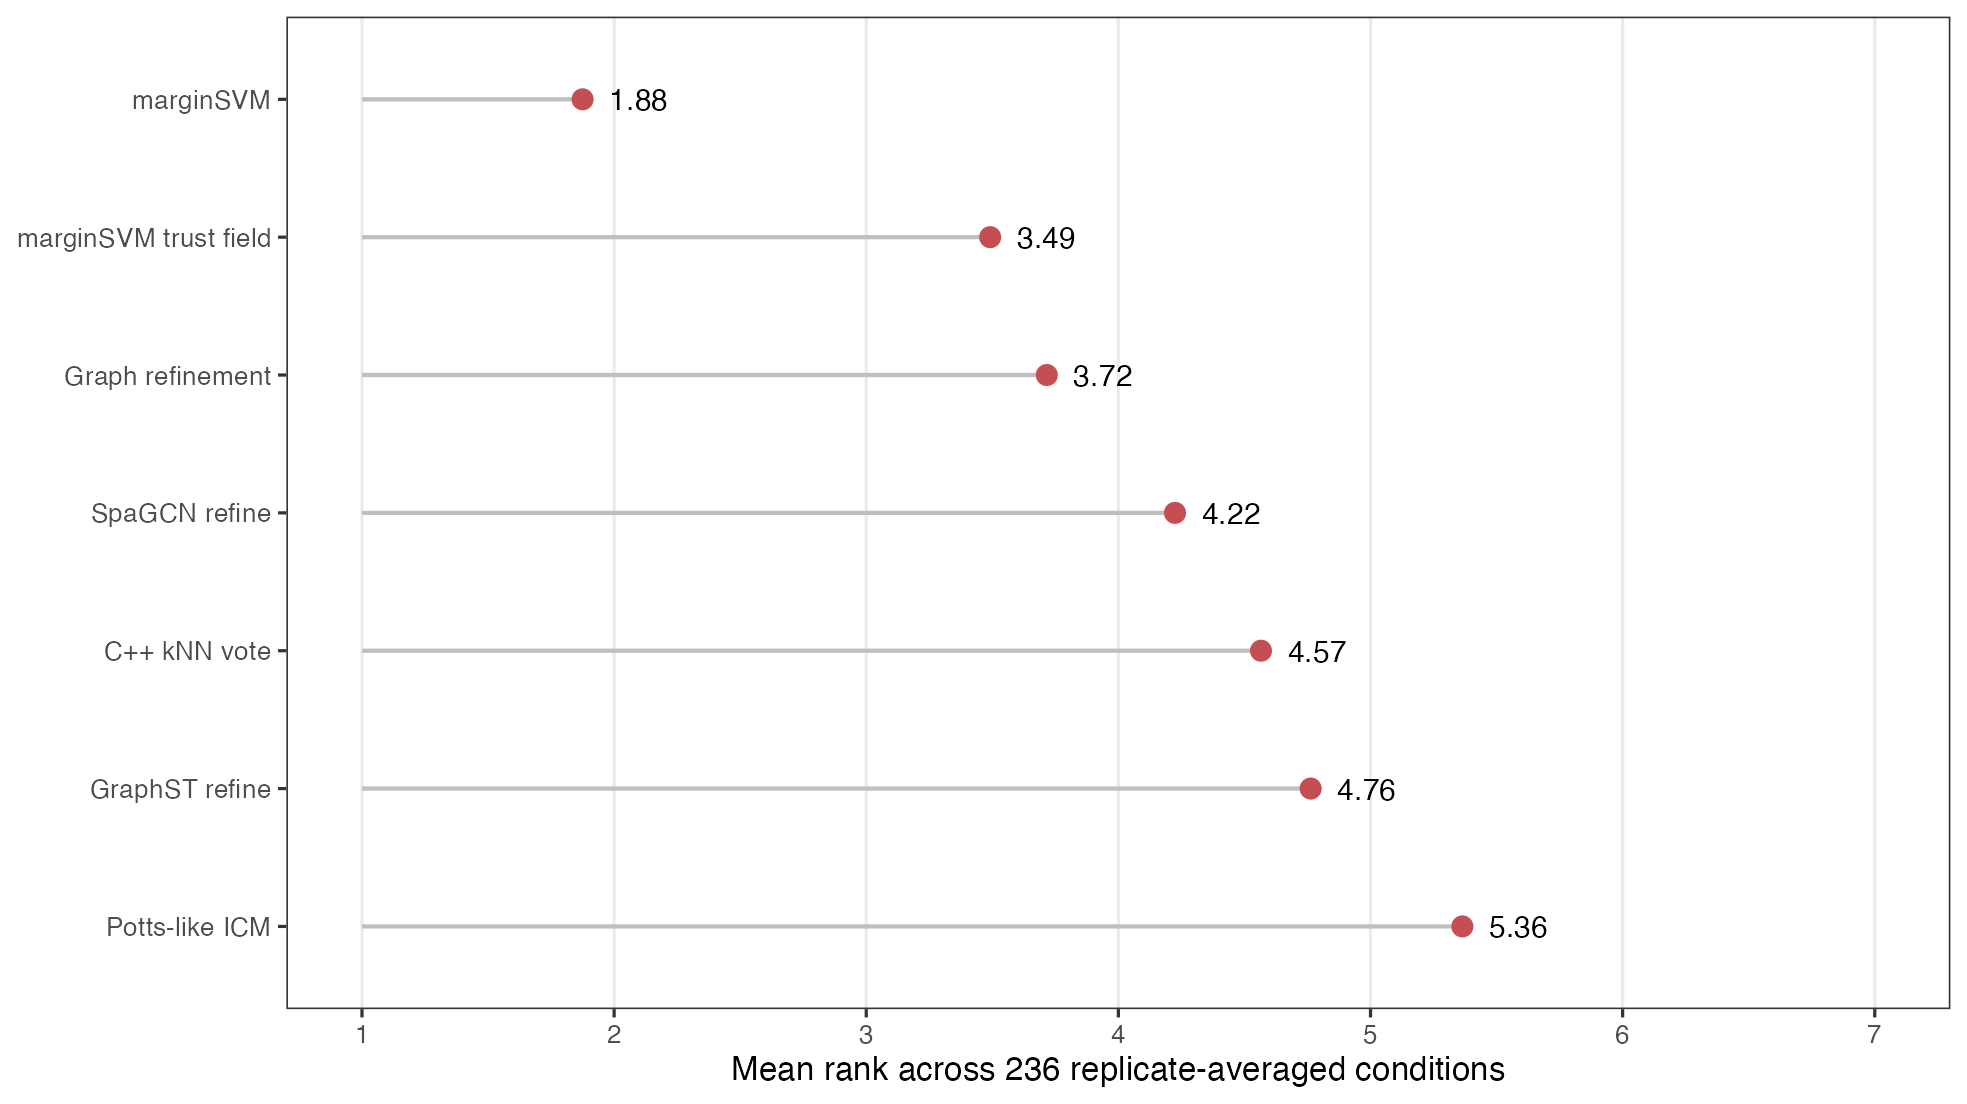
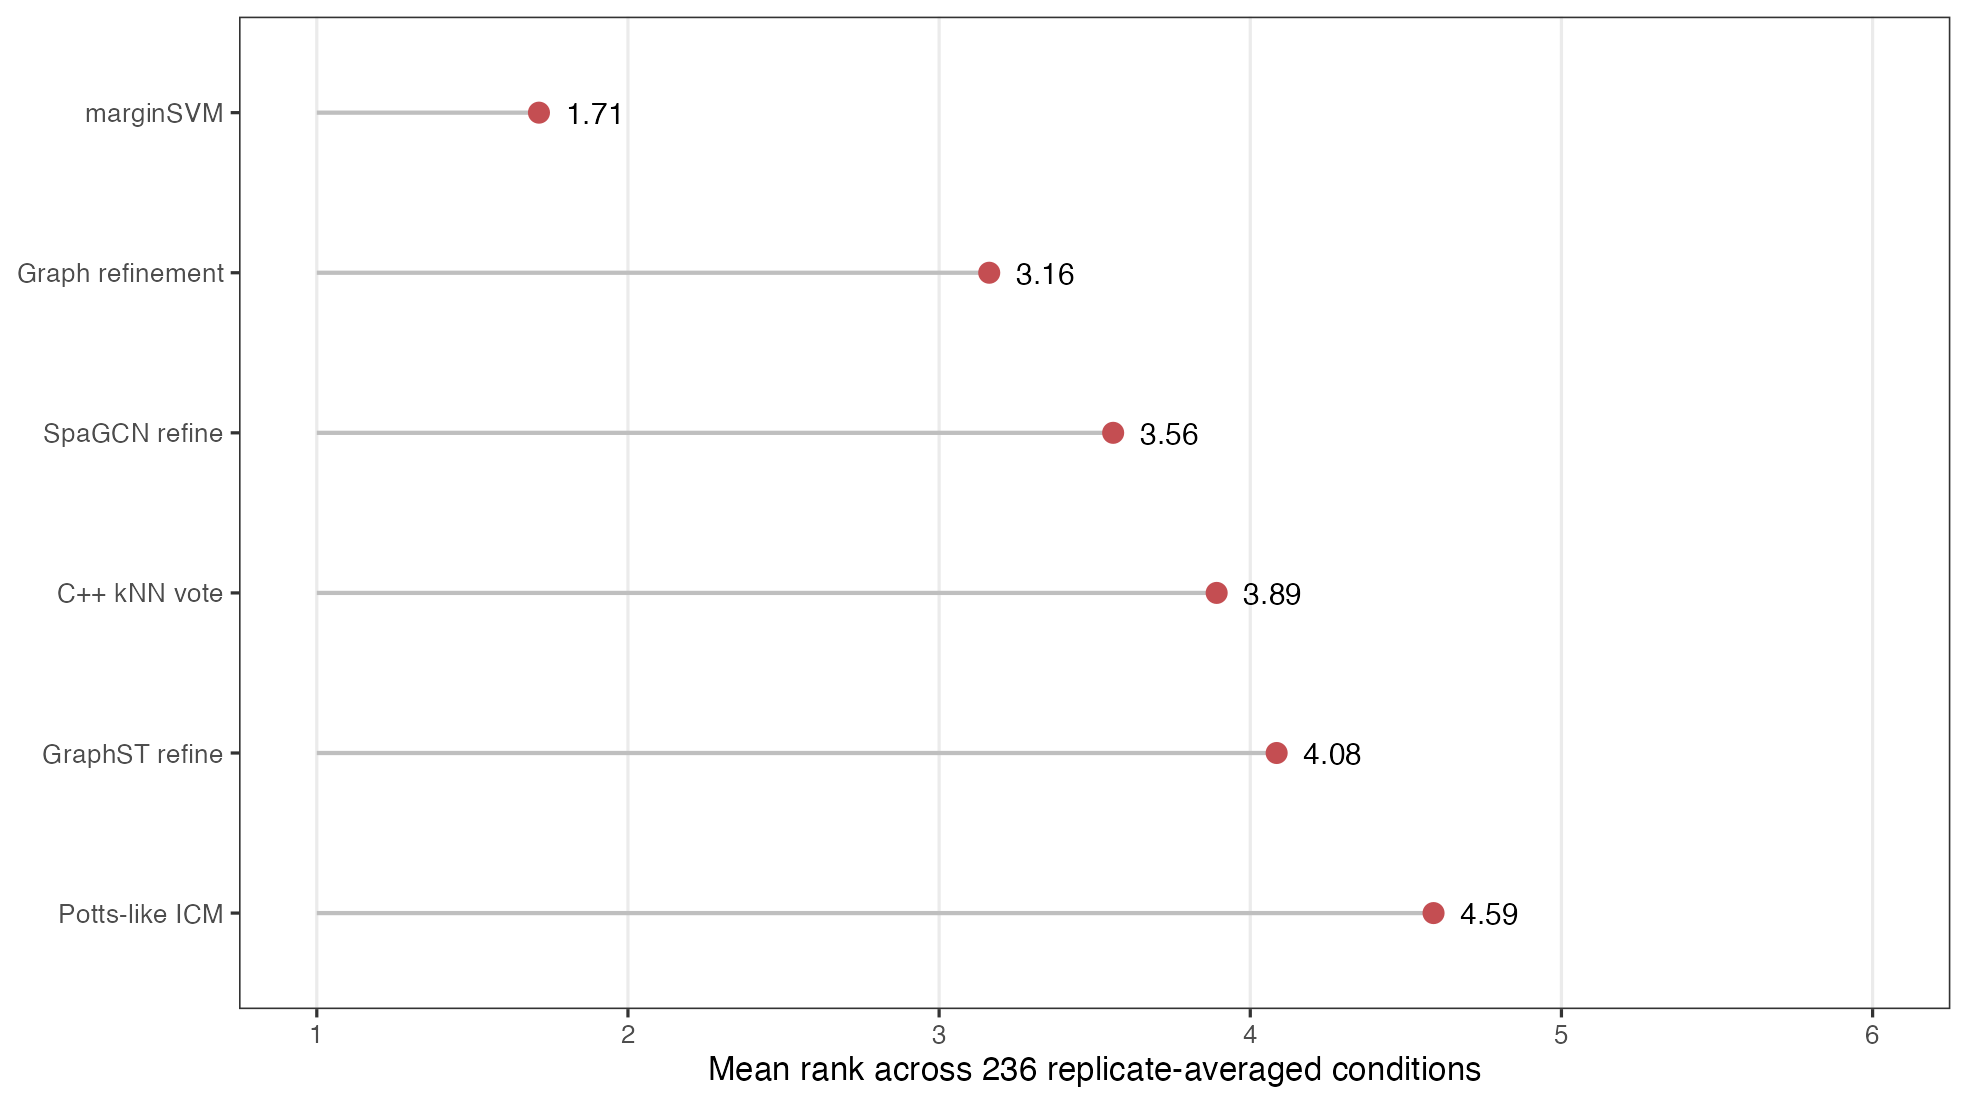
Focus manuscript on frozen marginSVM method

diff --git a/docs/jmlr_reviewer_report_single_method.md b/docs/jmlr_reviewer_report_single_method.md
@@ -1,0 +1,104 @@
+# JMLR-style reviewer report: single-method revision
+
+## Overall assessment
+
+**Recommendation: major revision.** This is a substantially stronger manuscript
+than the previous version. Presenting one frozen marginSVM algorithm removes an
+unhelpful model-selection narrative and makes the scientific claim auditable. The
+paper defines a useful problem that is distinct from end-to-end spatial clustering,
+provides a scalable C++17 implementation, evaluates diverse spatial structures and
+error mechanisms, and reports both aggregate gains and important failure modes.
+The 19-class colorectal analysis is a real biological example: its coordinates,
+tissue organization, class frequencies, and annotations come from a measured
+VisiumHD specimen. The controlled corruption used to calculate accuracy makes the
+label-recovery experiment semi-synthetic; it does not make the underlying dataset
+simulated.
+
+The evidence supports marginSVM as a strong direct spatial label refiner. Across
+236 replicate-averaged simulation conditions, it has mean rank 1.71 among six
+methods and positive paired effects against every comparator. It is also fast at
+large scale and the paper is unusually transparent about low-corruption, rare-region,
+and coherent-swap failures. The remaining concern is fit to JMLR: the manuscript
+currently reads as an excellent algorithmic and systems paper for spatial omics,
+but the broader machine-learning contribution and its theoretical basis are not yet
+developed enough for acceptance at a general ML journal.
+
+## Major comments
+
+1. **Strengthen the general learning contribution.** The method combines localized
+   Nyström SVM experts, graph evidence, edge-aware total variation, and topology
+   abstention in a thoughtful way. The manuscript should state which construction
+   is novel and why it applies beyond spatial transcriptomics. A general formulation
+   for noisy labels on sampled manifolds or spatial point processes would improve
+   the JMLR case.
+
+2. **Add formal analysis or a principled risk argument.** Complexity analysis is
+   useful but does not replace statistical analysis. At minimum, characterize the
+   conditions under which local margin evidence can improve labels without erasing
+   true regions. A bound or consistency result involving boundary regularity, label
+   noise, sampling density, tile overlap, and landmark approximation would be ideal.
+   An impossibility statement for coherent region swaps would complement the existing
+   empirical limitation.
+
+3. **Audit statistical hyperparameters.** The paper now has one method, but that
+   method still contains thresholds for tile construction, landmarks, graph fusion,
+   TV decoding, and abstention. Identify the development data used for every
+   statistically consequential setting. Report sensitivity for a small set of
+   influential parameters on held-out seeds; speed-only tuning does not establish
+   statistical robustness.
+
+4. **Clarify comparator provenance and scope.** Input equivalence is a defensible
+   reason to exclude end-to-end clustering methods. For each included competitor,
+   provide the exact published update rule, citation, implementation source, and
+   parameter-selection protocol. Distinguish a published refinement method from a
+   refinement rule adapted from a larger package. The current evidence establishes
+   superiority over the tested direct rules, not over every possible spatial-label
+   denoiser.
+
+5. **Temper inference from the simulation matrix.** Condition-level paired analysis
+   is appropriate, and the revised six-method ranks are convincing within the test
+   suite. However, the 236 conditions are dependent variations generated by a finite
+   set of simulators. Emphasize effect sizes and loss regions over extremely small
+   p-values, and consider a leave-one-geometry-family-out analysis to test whether
+   performance depends on individual simulator templates.
+
+6. **Expand biological validation when additional data become available.** The
+   colorectal experiment is valid controlled evidence on real tissue, but recovery
+   of deliberately corrupted WSI annotations is not the same as demonstrating that
+   naturally uncertain labels become more biologically correct. A later revision
+   should include multiple specimens and external endpoints such as pathologist
+   agreement, marker coherence, histological border concordance, or stability across
+   sections. Until then, the manuscript's present wording as controlled real-tissue
+   validation is appropriate.
+
+7. **Analyze selective failure more directly.** Topology abstention is central when
+   coordinates and labels do not identify the correct answer. Report how frequently
+   it activates by class count and corruption mechanism, its false-abstention rate,
+   and performance conditional on abstention. This would turn an implementation
+   safeguard into a measurable selective-prediction result.
+
+## Minor comments
+
+1. Give concise pseudocode for the complete frozen algorithm and a single table of
+   fixed defaults.
+2. State explicitly whether softmax outputs are calibrated probabilities or
+   uncalibrated evidence scores.
+3. Report peak memory with the 50,000- and 500,000-point timing experiments.
+4. Add session information or a locked environment and one command that regenerates
+   all principal tables and figures.
+5. Keep the abstract's balanced statement that conservative methods win at 5%
+   corruption and SpaGCN better protects the sparsest regions.
+
+## General comment to the authors
+
+The paper now has a coherent identity. Its strongest contribution is not merely
+that an SVM can smooth spatial labels, but that local boundary models, overlapping
+multiscale computation, graph-aware decoding, and explicit non-identifiability
+handling can be combined into a fast direct refiner with measurable advantages.
+The experimental evidence is already competitive for a specialist computational
+biology or bioinformatics journal. For JMLR, I would encourage the authors to make
+the noisy-spatial-label learning problem itself the central object, add a formal
+result or principled risk characterization, and demonstrate that the conclusions
+are not tied to the particular simulator families. With those additions and broader
+real-data validation, the work could become a compelling general machine-learning
+submission.

diff --git a/manuscript/multiscale_svm_manuscript.md b/manuscript/multiscale_svm_manuscript.md
@@ -32,16 +32,14 @@ coherent changes that coordinates and labels alone cannot identify as errors. Th
 algorithm is implemented in C++17 with a thin R interface. We evaluated 708
 simulations spanning 11 geometries, 2D/3D layered gradients, five region-density
 profiles, four error mechanisms, and one or three tissues. Across 236
-replicate-averaged conditions, marginSVM achieved mean rank 1.88 and 0.8421
+replicate-averaged conditions, marginSVM achieved mean rank 1.71 and 0.8421
 accuracy, versus 0.8120 for graph refinement. Its paired accuracy advantage over
-each direct comparator was 0.0254-0.0401, with all stratified bootstrap 95%
+each direct comparator was 0.0300-0.0401, with all stratified bootstrap 95%
 intervals above zero. SpaGCN better preserved the sparsest regions (0.7409 versus
 0.6644), and conservative methods were stronger at 5% corruption; marginSVM ranked
 first from 15% to 40%. On 60 untouched controlled corruptions of 194,541 locations
 from a real VisiumHD colorectal tissue with 19 biological annotation classes,
-marginSVM achieved 0.8664 accuracy. An opt-in trust-field
-extension improved a frozen colorectal confirmation but underperformed the default
-in general simulations. The CPU implementation processed 500,000 points in 6.19
+marginSVM achieved 0.8664 accuracy. The CPU implementation processed 500,000 points in 6.19
 seconds in 2D and 10.14 seconds in 3D. Independent multi-tissue and cross-cohort
 biological validation remains necessary.
 
@@ -202,29 +200,6 @@ corruptions. Abstention restores the input labels for that tissue and is returne
 a diagnostic attribute. The rule is disabled by default for smaller label sets,
 where simulations favored unrestricted marginSVM.
 
-## Experimental continuous-trust extension
-
-An opt-in extension replaces the hard tissue decision with a continuous local
-trust field and pointwise selective prediction. For each observation, trust
-combines its cross-fitted input-label probability, same-label support at 6, 12,
-24, and 48 neighbors, variance across overlapping tile probabilities, and local
-probability-field stability. A two-component Gaussian mixture is anchored by an
-absolute evidence score so a mostly clean tissue cannot label its lower relative
-mode as unreliable wholesale. Sample-wide spatial coherence modifies trust
-continuously rather than forcing all points to abstain.
-
-Local covariance estimated from Euclidean kd-tree candidates defines a regularized
-Mahalanobis distance, mixed with Euclidean distance to follow elongated tissue
-structure. Near low-margin borders, at most eight one-vs-one Nyström SVM
-specialists adjust only the probability mass of locally plausible class pairs.
-After TV decoding, a correction score combines low trust, decoded margin,
-cross-fitted SVM advantage, perturbation stability, and squared input-label
-discordance. Each point is returned as retain, change, or unresolved. Connected
-change components become unresolved when their size, tile stability, sample trust,
-and label coherence indicate a non-identifiable coherent alteration. Rare input
-components are protected only when they contain at least four connected points and
-have high trust, stability, and tile agreement; size alone never protects them.
-
 ## Implementation and backend contract
 
 All algorithmic work is C++17. Tile models run through a native thread pool, while
@@ -353,15 +328,15 @@ families.
 ## Complete simulation matrix
 
 marginSVM ranked first overall with 0.8421 accuracy, 0.6542 ARI, and mean rank
-1.88 across 236 replicate-averaged conditions. Graph refinement was the closest
+1.71 across 236
+replicate-averaged conditions. Graph refinement was the closest
 accuracy comparator at 0.8120, while SpaGCN had the highest worst-class recall.
-The default marginSVM also outperformed the trust-field extension by 0.0254, so
-the extension remains opt-in rather than replacing the general method.
+The comparison contains one frozen marginSVM configuration and direct label-refinement
+competitors with equivalent inputs.
 
 | Method | Accuracy | ARI | Worst recall | Sparse-region accuracy | Boundary accuracy | Seconds |
 |:--|--:|--:|--:|--:|--:|--:|
 | marginSVM | **0.8421** | **0.6542** | 0.5934 | 0.6644 | **0.7076** | 0.098 |
-| marginSVM trust field | 0.8166 | 0.5941 | 0.5537 | 0.6350 | 0.6759 | 0.210 |
 | Graph refinement | 0.8120 | 0.5974 | 0.6026 | 0.6829 | 0.6426 | 0.021 |
 | C++ kNN vote | 0.8107 | 0.5968 | 0.5637 | 0.6276 | 0.6316 | 0.020 |
 | SpaGCN refine | 0.8060 | 0.5808 | **0.6555** | **0.7409** | 0.6328 | **0.009** |
@@ -369,11 +344,11 @@ the extension remains opt-in rather than replacing the general method.
 | Potts-like ICM | 0.8019 | 0.5787 | 0.5620 | 0.6342 | 0.6223 | 0.021 |
 
 The paired condition-level accuracy advantage was 0.0300 over graph refinement
-(95% interval 0.0253-0.0349), 0.0361 over SpaGCN (0.0308-0.0412), 0.0396 over
-GraphST (0.0313-0.0480), 0.0314 over kNN voting (0.0289-0.0339), and 0.0401 over
-Potts-like ICM (0.0354-0.0451). marginSVM beat these methods in 82.6%, 80.1%,
+(95% interval 0.0252-0.0349), 0.0361 over SpaGCN (0.0311-0.0413), 0.0396 over
+GraphST (0.0312-0.0482), 0.0314 over kNN voting (0.0289-0.0339), and 0.0401 over
+Potts-like ICM (0.0352-0.0450). marginSVM beat these methods in 82.6%, 80.1%,
 78.0%, 97.9%, and 89.8% of conditions, respectively. The Friedman test rejected
-equal method ranks ($\chi^2_6=387.9$, $p<2.2\times10^{-16}$); every Holm-adjusted
+equal method ranks ($\chi^2_5=336.57$, $p<2.2\times10^{-16}$); every Holm-adjusted
 paired marginSVM comparison had $p<2\times10^{-16}$.
 
 ![Mean method rank across the complete simulation matrix.](../benchmarks/results/marginsvm_complete_simulation/condition_level_mean_rank.png){ width=84% }
@@ -411,8 +386,8 @@ dominate the observation count.
 Across 48 gradient simulations, marginSVM achieved 0.9821 accuracy. Performance
 remained high in both 2D and 3D and under all four area-concentration profiles. At
 5% minority mixture, several conservative methods approached ceiling performance;
-at 25%, marginSVM was consistently strongest or near strongest, while the trust-field
-extension became too conservative. In a separate 50,000-observation A-B-B-C
+at 25%, marginSVM was consistently strongest or near strongest. In a separate
+50,000-observation A-B-B-C
 simulation with 5% minority labels and two tissues, marginSVM achieved 0.9982
 accuracy in 0.43 seconds, with area accuracies from 0.9980 to 0.9982.
 
@@ -499,31 +474,6 @@ accuracy 0.8022, close to the 0.8100 corrupted-input baseline.
 
 ![Final 25% random-mislabelling colorectal example with quantitatively selected zoom regions: maximum SVM advantage (A), correction-rich tissue (B), and a multiclass border (C).](../benchmarks/results/visiumhd_colorectal_structured_svm_final/random_25pct_spatial_zoomed.png){ width=98% }
 
-## Frozen trust-field extension
-
-The trust-field extension was tuned only on eight colorectal development
-corruptions (10% and 25%; random, boundary, patch, and region mechanisms). It
-improved mean development accuracy from 0.8696 to 0.8714 and reduced damage from
-0.0231 to 0.0137. All extension settings were then frozen before opening a new
-seed block beginning at 1,040,000.
-
-On the eight confirmatory corruptions, v2 improved accuracy by 0.0040, ARI by
-0.0074, macro recall by 0.0009, and worst-class recall by 0.0287. Damage was nearly
-halved. Boundary accuracy decreased by 0.0022, correction recall decreased because
-5.59% of points were marked unresolved, and runtime increased by 58%.
-
-| Method | Accuracy | ARI | Macro recall | Worst recall | Boundary | Damage | Seconds |
-|:--|--:|--:|--:|--:|--:|--:|--:|
-| marginSVM v1 | 0.8677 | 0.7923 | 0.8298 | 0.5874 | **0.7383** | 0.0232 | **4.61** |
-| marginSVM v2 | **0.8717** | **0.7997** | **0.8307** | **0.6162** | 0.7361 | **0.0128** | 7.26 |
-
-![Confirmatory colorectal zoom comparing v1 and the frozen trust-field extension.](../benchmarks/results/marginsvm_v2_crc_confirmatory_t0p005/crc_best_zoom.png){ width=98% }
-
-This advantage was domain-specific. On 16 mixed 2D/3D simulations with random or
-boundary errors, v2 achieved 0.9005 accuracy versus 0.9224 for v1. The extension
-reduced damage but left more injected errors unresolved. These results justify an
-opt-in high-complexity mode, not replacement of the validated general default.
-
 # Discussion
 
 The results support marginSVM as the strongest overall direct refiner in the
@@ -546,12 +496,6 @@ swaps. Topology abstention avoids some harmful changes but cannot recover missin
 biological information. Applications prioritizing very rare compartments should
 therefore inspect sparse-class recall and compare the conservative mode rather than
 selecting a refiner from aggregate accuracy alone.
-
-The trust-field extension sharpens this limitation. It improved the frozen
-19-class colorectal primary outcome and worst-class protection, but failed to
-generalize to the mixed-geometry simulation suite. Its confirmatory colorectal
-result should therefore be treated as evidence for a high-class operating mode,
-not as proof that additional selectivity always helps.
 
 The colorectal analysis is a real biological case study: all spatial locations,
 tissue architecture, region prevalence, and 19 WSI-derived annotations come from
@@ -581,9 +525,7 @@ refined <- refine_spatial_svm(xy, labels, samples = tissue_id)
 ```
 
 Confidence, margin, local support, tile count, backend, worker count, and abstained
-tissue IDs are returned as attributes. The opt-in v2 path additionally returns
-trust, tile disagreement, perturbation stability, selective risk, pointwise
-decision state, and rare-component protection. All quantitative claims are generated
+tissue IDs are returned as attributes. All quantitative claims are generated
 by scripts under `benchmarks/`. The principal synthetic analyses are regenerated by:
 
 ```sh

diff --git a/docs/jmlr_response_to_review.md b/docs/jmlr_response_to_review.md
@@ -51,13 +51,14 @@ achieved 0.7409 sparse-region accuracy versus 0.6644 for marginSVM. The Discussi
 now recommends conservative refinement when very rare compartments dominate the
 scientific objective.
 
-### 6. Hyperparameters and trust-field mode
+### 6. Hyperparameters and method scope
 
-**Addressed in part.** The default and experimental modes are separated throughout.
-The trust-field extension remains opt-in because it improved the frozen 19-class
-colorectal block but lost to the default in the 708-scenario matrix. Component
-ablation and the existing disjoint development/confirmation split are reported.
-A full high-dimensional sensitivity surface would be expensive and is not claimed.
+**Addressed by scope reduction.** The manuscript now presents one frozen method:
+the production marginSVM configuration that performed best across the complete
+708-dataset matrix and was used for the primary 19-class colorectal experiment.
+The experimental trust-field branch, its separate tuning path, and its confirmatory
+substudy were removed from the paper. Component ablation, disjoint speed tuning,
+and independent validation of the final computational budget are reported.
 
 ### 7. Comparator validity
 